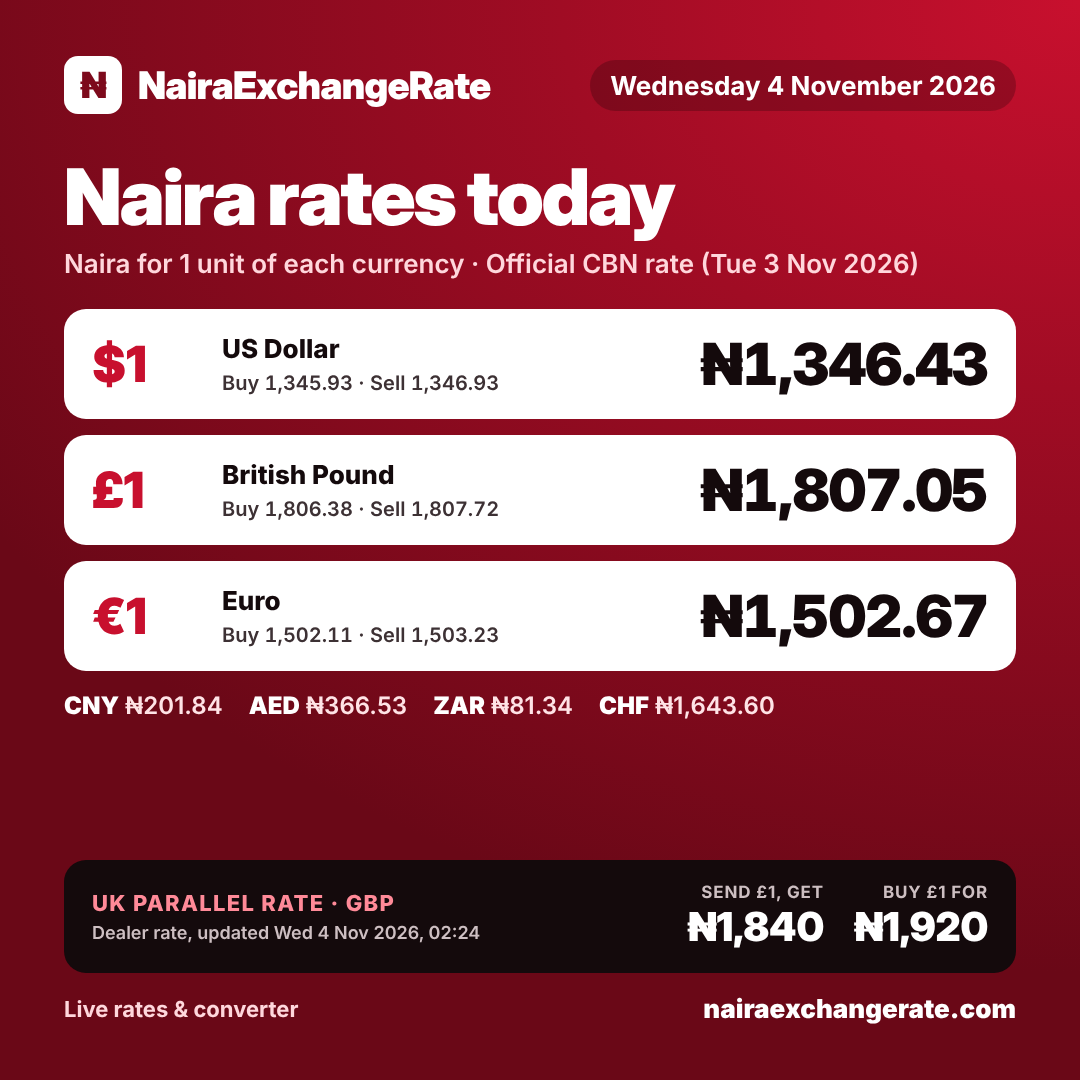
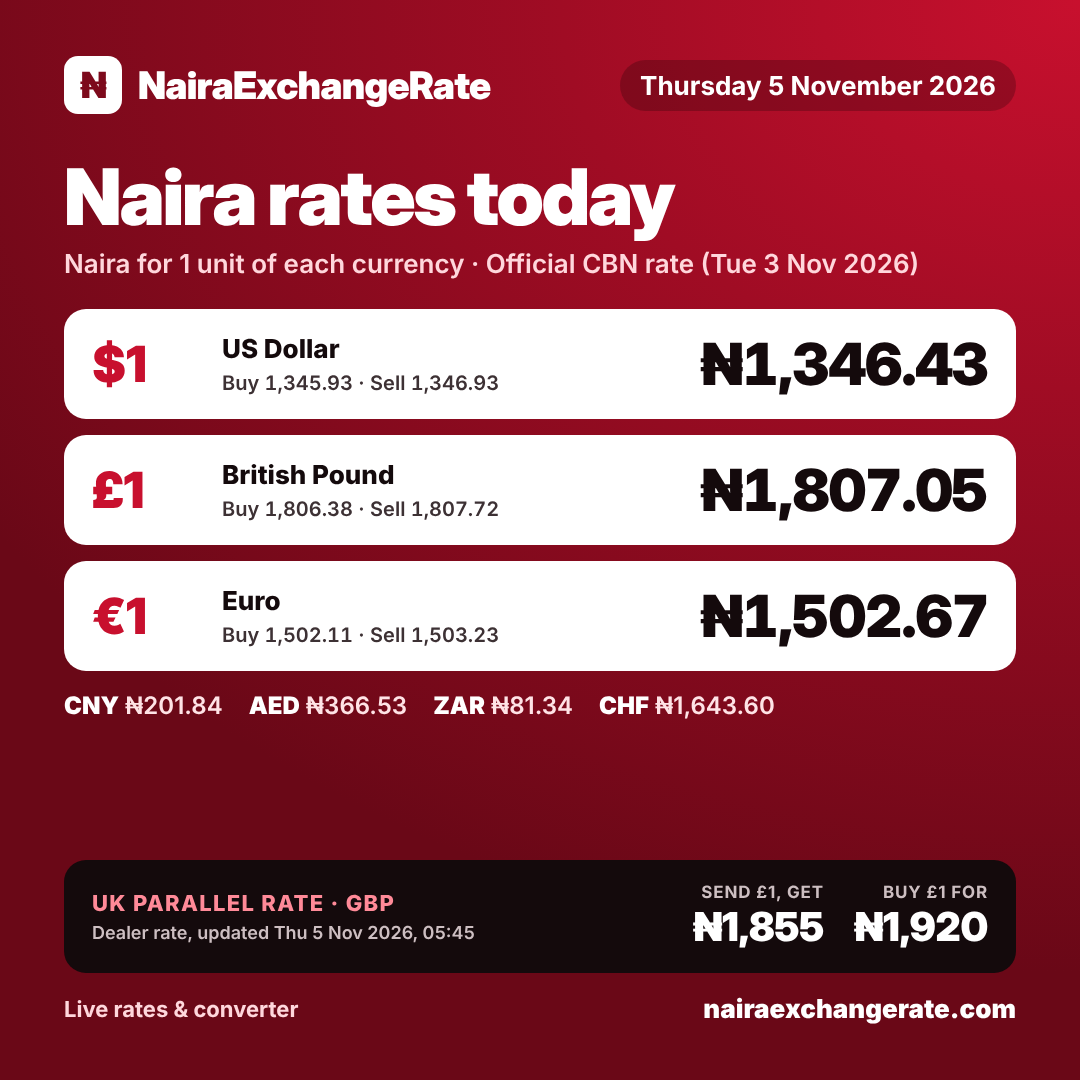
Update UK parallel rate 2026-11-05
Claude-Session: https://claude.ai/code/session_01NfXuJwbZzV9T65bdfXp15k

Changed region(s): [[0.6417, 0.825, 0.7639, 0.8861], [0.55, 0.0306, 0.7333, 0.1222], [0.2444, 0.8556, 0.4583, 0.8861]]

diff --git a/index.html b/index.html
@@ -248,9 +248,9 @@ footer .wrap{padding-block:22px 34px;font-size:.84rem;color:var(--muted);display
   },
   "parallel": {
     "label": "UK dealer rate",
-    "send": 1840.0,
+    "send": 1855.0,
     "buy": 1920.0,
-    "updated": "2026-11-04T02:24",
+    "updated": "2026-11-05T05:45",
     "history": [
       {
         "date": "2026-10-31",
@@ -265,6 +265,11 @@ footer .wrap{padding-block:22px 34px;font-size:.84rem;color:var(--muted);display
       {
         "date": "2026-11-04",
         "send": 1840.0,
+        "buy": 1920.0
+      },
+      {
+        "date": "2026-11-05",
+        "send": 1855.0,
         "buy": 1920.0
       }
     ]
